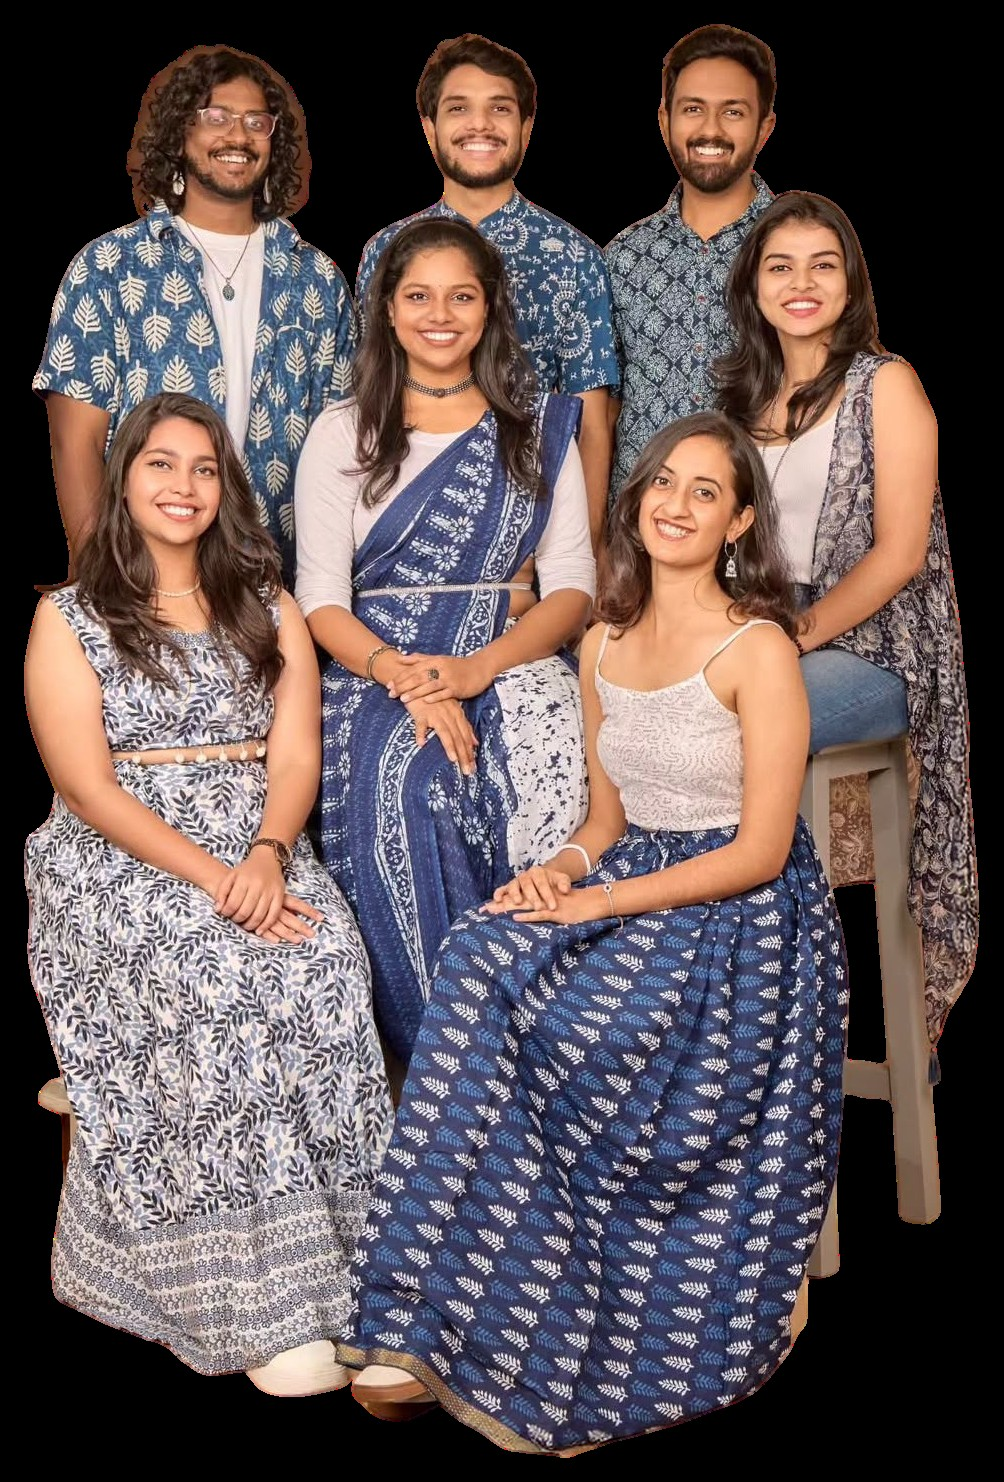
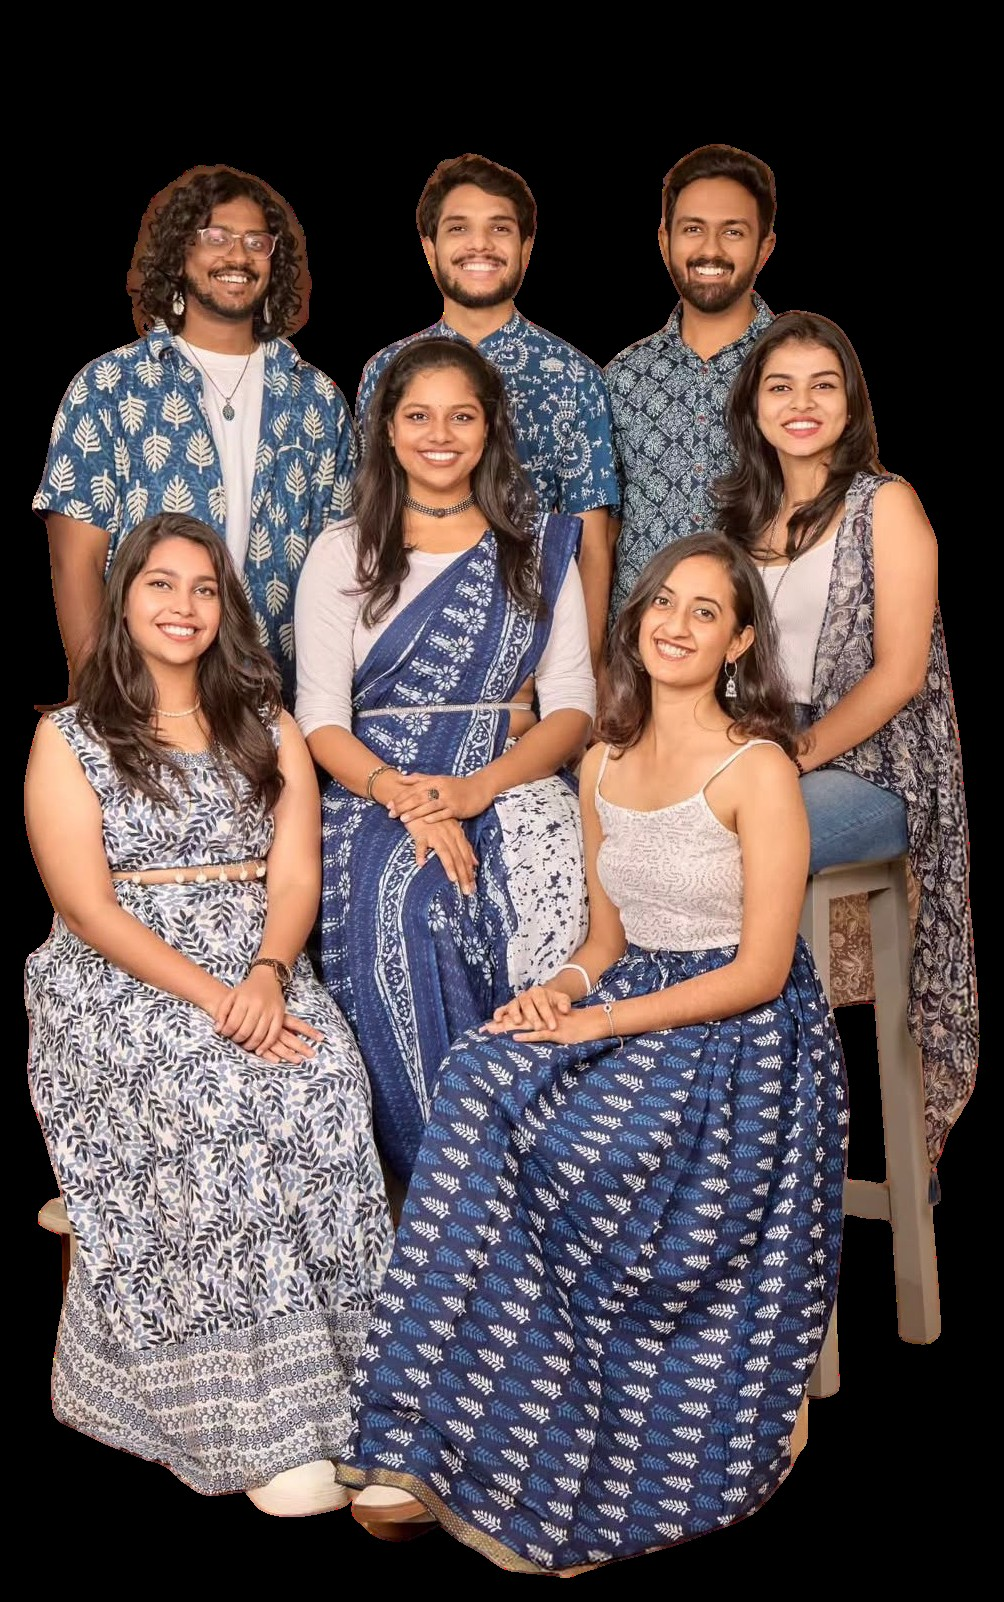
Add white IQ Techmax "Powered by" watermark to each event picture
Logo sits top-left on every event photo. Three cut-out photos get extra
black headroom so the watermark never covers a face.

diff --git a/docs/genz-bhajan/day9/Sharanya-Srinivas-Band/index.html b/docs/genz-bhajan/day9/Sharanya-Srinivas-Band/index.html
@@ -16,7 +16,15 @@
            background: #111015; box-shadow: 0 24px 60px rgba(0, 0, 0, .6); }
   .pass img { display: block; width: 100%; height: auto; }
   .photo { position: relative; }
-  .photo img { display: block; width: 100%; height: auto; }
+  .photo > img { display: block; width: 100%; height: auto; }
+  /* soft shade behind the watermark so it reads on bright photos */
+  .photo::before { content: ""; position: absolute; inset: 0; pointer-events: none;
+                   background: radial-gradient(ellipse at 0 0, rgba(0, 0, 0, .45), rgba(0, 0, 0, 0) 42%); }
+  .powered { position: absolute; top: 12px; left: 14px; width: clamp(80px, 24%, 118px); opacity: .88;
+             pointer-events: none; filter: drop-shadow(0 1px 2px rgba(0, 0, 0, .5)); }
+  .powered span { display: block; margin-bottom: 4px; font-size: 8px; font-weight: 600; letter-spacing: .24em;
+                  color: #fff; }
+  .powered img { display: block; width: 100%; height: auto; }
   .photo::after { content: ""; position: absolute; inset: auto 0 0 0; height: 30%;
                   background: linear-gradient(to bottom, rgba(17, 16, 21, 0), #111015); }
   figcaption { position: relative; margin-top: -36px; padding: 0 22px 22px; }
@@ -36,7 +44,10 @@
   <img src="../../img/vvip_pass.jpg" alt="GenZ Bhajan VVIP Pass">
 </figure>
 <figure class="tall">
-  <div class="photo"><img src="../../img/event9.jpg" alt="Sharanya Srinivas & Band"></div>
+  <div class="photo">
+    <img src="../../img/event9.jpg" alt="Sharanya Srinivas & Band">
+    <div class="powered"><span>POWERED BY</span><img src="../../img/iqtechmax_white.png" alt="IQ Techmax"></div>
+  </div>
   <figcaption>
     <span class="day">DAY 9 &middot; OCT 19</span>
     <h1>Sharanya Srinivas & Band</h1>

diff --git a/docs/genz-bhajan/day1/Emayavaramban-Band/index.html b/docs/genz-bhajan/day1/Emayavaramban-Band/index.html
@@ -16,7 +16,15 @@
            background: #111015; box-shadow: 0 24px 60px rgba(0, 0, 0, .6); }
   .pass img { display: block; width: 100%; height: auto; }
   .photo { position: relative; }
-  .photo img { display: block; width: 100%; height: auto; }
+  .photo > img { display: block; width: 100%; height: auto; }
+  /* soft shade behind the watermark so it reads on bright photos */
+  .photo::before { content: ""; position: absolute; inset: 0; pointer-events: none;
+                   background: radial-gradient(ellipse at 0 0, rgba(0, 0, 0, .45), rgba(0, 0, 0, 0) 42%); }
+  .powered { position: absolute; top: 12px; left: 14px; width: clamp(80px, 24%, 118px); opacity: .88;
+             pointer-events: none; filter: drop-shadow(0 1px 2px rgba(0, 0, 0, .5)); }
+  .powered span { display: block; margin-bottom: 4px; font-size: 8px; font-weight: 600; letter-spacing: .24em;
+                  color: #fff; }
+  .powered img { display: block; width: 100%; height: auto; }
   .photo::after { content: ""; position: absolute; inset: auto 0 0 0; height: 30%;
                   background: linear-gradient(to bottom, rgba(17, 16, 21, 0), #111015); }
   figcaption { position: relative; margin-top: -36px; padding: 0 22px 22px; }
@@ -36,7 +44,10 @@
   <img src="../../img/vvip_pass.jpg" alt="GenZ Bhajan VVIP Pass">
 </figure>
 <figure class="tall">
-  <div class="photo"><img src="../../img/event1.jpg" alt="Emayavaramban & Band"></div>
+  <div class="photo">
+    <img src="../../img/event1.jpg" alt="Emayavaramban & Band">
+    <div class="powered"><span>POWERED BY</span><img src="../../img/iqtechmax_white.png" alt="IQ Techmax"></div>
+  </div>
   <figcaption>
     <span class="day">DAY 1 &middot; OCT 11</span>
     <h1>Emayavaramban & Band</h1>

diff --git a/docs/genz-bhajan/day6/Sai-Vignesh-Band/index.html b/docs/genz-bhajan/day6/Sai-Vignesh-Band/index.html
@@ -16,7 +16,15 @@
            background: #111015; box-shadow: 0 24px 60px rgba(0, 0, 0, .6); }
   .pass img { display: block; width: 100%; height: auto; }
   .photo { position: relative; }
-  .photo img { display: block; width: 100%; height: auto; }
+  .photo > img { display: block; width: 100%; height: auto; }
+  /* soft shade behind the watermark so it reads on bright photos */
+  .photo::before { content: ""; position: absolute; inset: 0; pointer-events: none;
+                   background: radial-gradient(ellipse at 0 0, rgba(0, 0, 0, .45), rgba(0, 0, 0, 0) 42%); }
+  .powered { position: absolute; top: 12px; left: 14px; width: clamp(80px, 24%, 118px); opacity: .88;
+             pointer-events: none; filter: drop-shadow(0 1px 2px rgba(0, 0, 0, .5)); }
+  .powered span { display: block; margin-bottom: 4px; font-size: 8px; font-weight: 600; letter-spacing: .24em;
+                  color: #fff; }
+  .powered img { display: block; width: 100%; height: auto; }
   .photo::after { content: ""; position: absolute; inset: auto 0 0 0; height: 30%;
                   background: linear-gradient(to bottom, rgba(17, 16, 21, 0), #111015); }
   figcaption { position: relative; margin-top: -36px; padding: 0 22px 22px; }
@@ -36,7 +44,10 @@
   <img src="../../img/vvip_pass.jpg" alt="GenZ Bhajan VVIP Pass">
 </figure>
 <figure class="tall">
-  <div class="photo"><img src="../../img/event6.jpg" alt="Sai Vignesh & Band"></div>
+  <div class="photo">
+    <img src="../../img/event6.jpg" alt="Sai Vignesh & Band">
+    <div class="powered"><span>POWERED BY</span><img src="../../img/iqtechmax_white.png" alt="IQ Techmax"></div>
+  </div>
   <figcaption>
     <span class="day">DAY 6 &middot; OCT 16</span>
     <h1>Sai Vignesh & Band</h1>

diff --git a/docs/genz-bhajan/day4/Bridge-Academy/index.html b/docs/genz-bhajan/day4/Bridge-Academy/index.html
@@ -16,7 +16,15 @@
            background: #111015; box-shadow: 0 24px 60px rgba(0, 0, 0, .6); }
   .pass img { display: block; width: 100%; height: auto; }
   .photo { position: relative; }
-  .photo img { display: block; width: 100%; height: auto; }
+  .photo > img { display: block; width: 100%; height: auto; }
+  /* soft shade behind the watermark so it reads on bright photos */
+  .photo::before { content: ""; position: absolute; inset: 0; pointer-events: none;
+                   background: radial-gradient(ellipse at 0 0, rgba(0, 0, 0, .45), rgba(0, 0, 0, 0) 42%); }
+  .powered { position: absolute; top: 12px; left: 14px; width: clamp(80px, 24%, 118px); opacity: .88;
+             pointer-events: none; filter: drop-shadow(0 1px 2px rgba(0, 0, 0, .5)); }
+  .powered span { display: block; margin-bottom: 4px; font-size: 8px; font-weight: 600; letter-spacing: .24em;
+                  color: #fff; }
+  .powered img { display: block; width: 100%; height: auto; }
   .photo::after { content: ""; position: absolute; inset: auto 0 0 0; height: 30%;
                   background: linear-gradient(to bottom, rgba(17, 16, 21, 0), #111015); }
   figcaption { position: relative; margin-top: -36px; padding: 0 22px 22px; }
@@ -36,7 +44,10 @@
   <img src="../../img/vvip_pass.jpg" alt="GenZ Bhajan VVIP Pass">
 </figure>
 <figure class="wide">
-  <div class="photo"><img src="../../img/event4.jpg" alt="Bridge Academy"></div>
+  <div class="photo">
+    <img src="../../img/event4.jpg" alt="Bridge Academy">
+    <div class="powered"><span>POWERED BY</span><img src="../../img/iqtechmax_white.png" alt="IQ Techmax"></div>
+  </div>
   <figcaption>
     <span class="day">DAY 4 &middot; OCT 14</span>
     <h1>Bridge Academy</h1>

diff --git a/docs/genz-bhajan/day5/Sarangi-Band/index.html b/docs/genz-bhajan/day5/Sarangi-Band/index.html
@@ -16,7 +16,15 @@
            background: #111015; box-shadow: 0 24px 60px rgba(0, 0, 0, .6); }
   .pass img { display: block; width: 100%; height: auto; }
   .photo { position: relative; }
-  .photo img { display: block; width: 100%; height: auto; }
+  .photo > img { display: block; width: 100%; height: auto; }
+  /* soft shade behind the watermark so it reads on bright photos */
+  .photo::before { content: ""; position: absolute; inset: 0; pointer-events: none;
+                   background: radial-gradient(ellipse at 0 0, rgba(0, 0, 0, .45), rgba(0, 0, 0, 0) 42%); }
+  .powered { position: absolute; top: 12px; left: 14px; width: clamp(80px, 24%, 118px); opacity: .88;
+             pointer-events: none; filter: drop-shadow(0 1px 2px rgba(0, 0, 0, .5)); }
+  .powered span { display: block; margin-bottom: 4px; font-size: 8px; font-weight: 600; letter-spacing: .24em;
+                  color: #fff; }
+  .powered img { display: block; width: 100%; height: auto; }
   .photo::after { content: ""; position: absolute; inset: auto 0 0 0; height: 30%;
                   background: linear-gradient(to bottom, rgba(17, 16, 21, 0), #111015); }
   figcaption { position: relative; margin-top: -36px; padding: 0 22px 22px; }
@@ -36,7 +44,10 @@
   <img src="../../img/vvip_pass.jpg" alt="GenZ Bhajan VVIP Pass">
 </figure>
 <figure class="wide">
-  <div class="photo"><img src="../../img/event5.jpg" alt="Sarangi Band"></div>
+  <div class="photo">
+    <img src="../../img/event5.jpg" alt="Sarangi Band">
+    <div class="powered"><span>POWERED BY</span><img src="../../img/iqtechmax_white.png" alt="IQ Techmax"></div>
+  </div>
   <figcaption>
     <span class="day">DAY 5 &middot; OCT 15</span>
     <h1>Sarangi Band</h1>

diff --git a/docs/genz-bhajan/day8/Thisram-Band/index.html b/docs/genz-bhajan/day8/Thisram-Band/index.html
@@ -16,7 +16,15 @@
            background: #111015; box-shadow: 0 24px 60px rgba(0, 0, 0, .6); }
   .pass img { display: block; width: 100%; height: auto; }
   .photo { position: relative; }
-  .photo img { display: block; width: 100%; height: auto; }
+  .photo > img { display: block; width: 100%; height: auto; }
+  /* soft shade behind the watermark so it reads on bright photos */
+  .photo::before { content: ""; position: absolute; inset: 0; pointer-events: none;
+                   background: radial-gradient(ellipse at 0 0, rgba(0, 0, 0, .45), rgba(0, 0, 0, 0) 42%); }
+  .powered { position: absolute; top: 12px; left: 14px; width: clamp(80px, 24%, 118px); opacity: .88;
+             pointer-events: none; filter: drop-shadow(0 1px 2px rgba(0, 0, 0, .5)); }
+  .powered span { display: block; margin-bottom: 4px; font-size: 8px; font-weight: 600; letter-spacing: .24em;
+                  color: #fff; }
+  .powered img { display: block; width: 100%; height: auto; }
   .photo::after { content: ""; position: absolute; inset: auto 0 0 0; height: 30%;
                   background: linear-gradient(to bottom, rgba(17, 16, 21, 0), #111015); }
   figcaption { position: relative; margin-top: -36px; padding: 0 22px 22px; }
@@ -36,7 +44,10 @@
   <img src="../../img/vvip_pass.jpg" alt="GenZ Bhajan VVIP Pass">
 </figure>
 <figure class="tall">
-  <div class="photo"><img src="../../img/event8.jpg" alt="Thisram Band"></div>
+  <div class="photo">
+    <img src="../../img/event8.jpg" alt="Thisram Band">
+    <div class="powered"><span>POWERED BY</span><img src="../../img/iqtechmax_white.png" alt="IQ Techmax"></div>
+  </div>
   <figcaption>
     <span class="day">DAY 8 &middot; OCT 18</span>
     <h1>Thisram Band</h1>

diff --git a/docs/genz-bhajan/day2/Skanda-Band/index.html b/docs/genz-bhajan/day2/Skanda-Band/index.html
@@ -16,7 +16,15 @@
            background: #111015; box-shadow: 0 24px 60px rgba(0, 0, 0, .6); }
   .pass img { display: block; width: 100%; height: auto; }
   .photo { position: relative; }
-  .photo img { display: block; width: 100%; height: auto; }
+  .photo > img { display: block; width: 100%; height: auto; }
+  /* soft shade behind the watermark so it reads on bright photos */
+  .photo::before { content: ""; position: absolute; inset: 0; pointer-events: none;
+                   background: radial-gradient(ellipse at 0 0, rgba(0, 0, 0, .45), rgba(0, 0, 0, 0) 42%); }
+  .powered { position: absolute; top: 12px; left: 14px; width: clamp(80px, 24%, 118px); opacity: .88;
+             pointer-events: none; filter: drop-shadow(0 1px 2px rgba(0, 0, 0, .5)); }
+  .powered span { display: block; margin-bottom: 4px; font-size: 8px; font-weight: 600; letter-spacing: .24em;
+                  color: #fff; }
+  .powered img { display: block; width: 100%; height: auto; }
   .photo::after { content: ""; position: absolute; inset: auto 0 0 0; height: 30%;
                   background: linear-gradient(to bottom, rgba(17, 16, 21, 0), #111015); }
   figcaption { position: relative; margin-top: -36px; padding: 0 22px 22px; }
@@ -36,7 +44,10 @@
   <img src="../../img/vvip_pass.jpg" alt="GenZ Bhajan VVIP Pass">
 </figure>
 <figure class="tall">
-  <div class="photo"><img src="../../img/event2.jpg" alt="Skanda Band"></div>
+  <div class="photo">
+    <img src="../../img/event2.jpg" alt="Skanda Band">
+    <div class="powered"><span>POWERED BY</span><img src="../../img/iqtechmax_white.png" alt="IQ Techmax"></div>
+  </div>
   <figcaption>
     <span class="day">DAY 2 &middot; OCT 12</span>
     <h1>Skanda Band</h1>

diff --git a/docs/genz-bhajan/day3/Varahi-Band/index.html b/docs/genz-bhajan/day3/Varahi-Band/index.html
@@ -16,7 +16,15 @@
            background: #111015; box-shadow: 0 24px 60px rgba(0, 0, 0, .6); }
   .pass img { display: block; width: 100%; height: auto; }
   .photo { position: relative; }
-  .photo img { display: block; width: 100%; height: auto; }
+  .photo > img { display: block; width: 100%; height: auto; }
+  /* soft shade behind the watermark so it reads on bright photos */
+  .photo::before { content: ""; position: absolute; inset: 0; pointer-events: none;
+                   background: radial-gradient(ellipse at 0 0, rgba(0, 0, 0, .45), rgba(0, 0, 0, 0) 42%); }
+  .powered { position: absolute; top: 12px; left: 14px; width: clamp(80px, 24%, 118px); opacity: .88;
+             pointer-events: none; filter: drop-shadow(0 1px 2px rgba(0, 0, 0, .5)); }
+  .powered span { display: block; margin-bottom: 4px; font-size: 8px; font-weight: 600; letter-spacing: .24em;
+                  color: #fff; }
+  .powered img { display: block; width: 100%; height: auto; }
   .photo::after { content: ""; position: absolute; inset: auto 0 0 0; height: 30%;
                   background: linear-gradient(to bottom, rgba(17, 16, 21, 0), #111015); }
   figcaption { position: relative; margin-top: -36px; padding: 0 22px 22px; }
@@ -36,7 +44,10 @@
   <img src="../../img/vvip_pass.jpg" alt="GenZ Bhajan VVIP Pass">
 </figure>
 <figure class="tall">
-  <div class="photo"><img src="../../img/event3.jpg" alt="Varahi Band"></div>
+  <div class="photo">
+    <img src="../../img/event3.jpg" alt="Varahi Band">
+    <div class="powered"><span>POWERED BY</span><img src="../../img/iqtechmax_white.png" alt="IQ Techmax"></div>
+  </div>
   <figcaption>
     <span class="day">DAY 3 &middot; OCT 13</span>
     <h1>Varahi Band</h1>

diff --git a/docs/genz-bhajan/day7/Iskcon-Band/index.html b/docs/genz-bhajan/day7/Iskcon-Band/index.html
@@ -16,7 +16,15 @@
            background: #111015; box-shadow: 0 24px 60px rgba(0, 0, 0, .6); }
   .pass img { display: block; width: 100%; height: auto; }
   .photo { position: relative; }
-  .photo img { display: block; width: 100%; height: auto; }
+  .photo > img { display: block; width: 100%; height: auto; }
+  /* soft shade behind the watermark so it reads on bright photos */
+  .photo::before { content: ""; position: absolute; inset: 0; pointer-events: none;
+                   background: radial-gradient(ellipse at 0 0, rgba(0, 0, 0, .45), rgba(0, 0, 0, 0) 42%); }
+  .powered { position: absolute; top: 12px; left: 14px; width: clamp(80px, 24%, 118px); opacity: .88;
+             pointer-events: none; filter: drop-shadow(0 1px 2px rgba(0, 0, 0, .5)); }
+  .powered span { display: block; margin-bottom: 4px; font-size: 8px; font-weight: 600; letter-spacing: .24em;
+                  color: #fff; }
+  .powered img { display: block; width: 100%; height: auto; }
   .photo::after { content: ""; position: absolute; inset: auto 0 0 0; height: 30%;
                   background: linear-gradient(to bottom, rgba(17, 16, 21, 0), #111015); }
   figcaption { position: relative; margin-top: -36px; padding: 0 22px 22px; }
@@ -36,7 +44,10 @@
   <img src="../../img/vvip_pass.jpg" alt="GenZ Bhajan VVIP Pass">
 </figure>
 <figure class="tall">
-  <div class="photo"><img src="../../img/event7.jpg" alt="Iskcon Band"></div>
+  <div class="photo">
+    <img src="../../img/event7.jpg" alt="Iskcon Band">
+    <div class="powered"><span>POWERED BY</span><img src="../../img/iqtechmax_white.png" alt="IQ Techmax"></div>
+  </div>
   <figcaption>
     <span class="day">DAY 7 &middot; OCT 17</span>
     <h1>Iskcon Band</h1>

diff --git a/make_qr.py b/make_qr.py
@@ -31,7 +31,15 @@ PAGE = """<!doctype html>
            background: #111015; box-shadow: 0 24px 60px rgba(0, 0, 0, .6); }}
   .pass img {{ display: block; width: 100%; height: auto; }}
   .photo {{ position: relative; }}
-  .photo img {{ display: block; width: 100%; height: auto; }}
+  .photo > img {{ display: block; width: 100%; height: auto; }}
+  /* soft shade behind the watermark so it reads on bright photos */
+  .photo::before {{ content: ""; position: absolute; inset: 0; pointer-events: none;
+                   background: radial-gradient(ellipse at 0 0, rgba(0, 0, 0, .45), rgba(0, 0, 0, 0) 42%); }}
+  .powered {{ position: absolute; top: 12px; left: 14px; width: clamp(80px, 24%, 118px); opacity: .88;
+             pointer-events: none; filter: drop-shadow(0 1px 2px rgba(0, 0, 0, .5)); }}
+  .powered span {{ display: block; margin-bottom: 4px; font-size: 8px; font-weight: 600; letter-spacing: .24em;
+                  color: #fff; }}
+  .powered img {{ display: block; width: 100%; height: auto; }}
   .photo::after {{ content: ""; position: absolute; inset: auto 0 0 0; height: 30%;
                   background: linear-gradient(to bottom, rgba(17, 16, 21, 0), #111015); }}
   figcaption {{ position: relative; margin-top: -36px; padding: 0 22px 22px; }}
@@ -51,7 +59,10 @@ PAGE = """<!doctype html>
   <img src="../../img/vvip_pass.jpg" alt="GenZ Bhajan VVIP Pass">
 </figure>
 <figure class="{shape}">
-  <div class="photo"><img src="../../img/event{day}.jpg" alt="{artist}"></div>
+  <div class="photo">
+    <img src="../../img/event{day}.jpg" alt="{artist}">
+    <div class="powered"><span>POWERED BY</span><img src="../../img/iqtechmax_white.png" alt="IQ Techmax"></div>
+  </div>
   <figcaption>
     <span class="day">DAY {day} &middot; {date_upper}</span>
     <h1>{artist}</h1>
@@ -81,10 +92,27 @@ def event_path(day, artist):
     return f"day{day}/{slug(artist)}"
 
 
+def build_watermark(out):
+    """White, transparent, side-by-side version of iqtechmax_logo.png (icon left of the wordmark)."""
+    logo = Image.open("iqtechmax_logo.png").convert("L")
+    icon, word = logo.crop((98, 134, 235, 382)), logo.crop((44, 413, 301, 459))
+    icon = icon.resize((round(icon.width * 96 / icon.height), 96), Image.LANCZOS)
+    gap = 18
+    shade = Image.new("L", (icon.width + gap + word.width, icon.height), 255)
+    shade.paste(icon, (0, 0))
+    shade.paste(word, (icon.width + gap, (icon.height - word.height) // 2))
+    # dark ink -> opaque white, white paper -> transparent
+    alpha = shade.point(lambda v: min(255, round((255 - v) * 1.25)))
+    mark = Image.new("RGBA", shade.size, (255, 255, 255, 0))
+    mark.putalpha(alpha)
+    mark.save(out)
+
+
 def build_site():
     shutil.rmtree(SITE, ignore_errors=True)
     os.makedirs(f"{EVENT_DIR}/img")
     shutil.copy("vvip_pass.jpg", f"{EVENT_DIR}/img/vvip_pass.jpg")
+    build_watermark(f"{EVENT_DIR}/img/iqtechmax_white.png")
     for day, date, artist, _ in EVENTS:
         path = event_path(day, artist)
         shutil.copy(f"events/event{day}.jpg", f"{EVENT_DIR}/img/event{day}.jpg")

diff --git a/extract_events.py b/extract_events.py
@@ -20,6 +20,10 @@ EVENTS = [
 # Fixed crops applied before trimming, for images with extra chrome around the photo.
 PRE_CROP = {126: (0, 211, 632, 1159)}  # drop status bar and nav bar
 
+# Cut-outs on black whose heads reach the top edge: extra black above (as a fraction of
+# the width) so the "Powered by" watermark in the top-left corner doesn't cover anyone.
+HEADROOM = {153: 0.12, 168: 0.12, 217: 0.12}
+
 
 def load(doc, xref):
     pix = pymupdf.Pixmap(doc, xref)
@@ -52,6 +56,11 @@ if __name__ == "__main__":
         if xref in PRE_CROP:
             img = img.crop(PRE_CROP[xref])
         img = trim_black(img)
+        if xref in HEADROOM:
+            extra = round(img.width * HEADROOM[xref])
+            padded = Image.new("RGB", (img.width, img.height + extra), (0, 0, 0))
+            padded.paste(img, (0, extra))
+            img = padded
         out = f"events/event{day}.jpg"
         img.save(out, quality=90)
         print(f"Day {day} {date} {artist}: {out} {img.size}")
